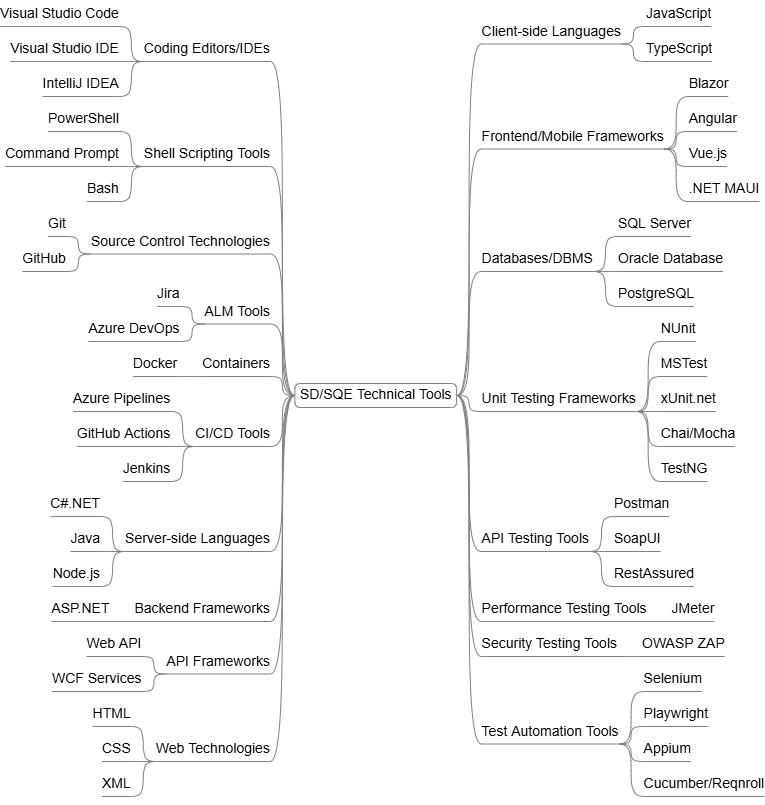
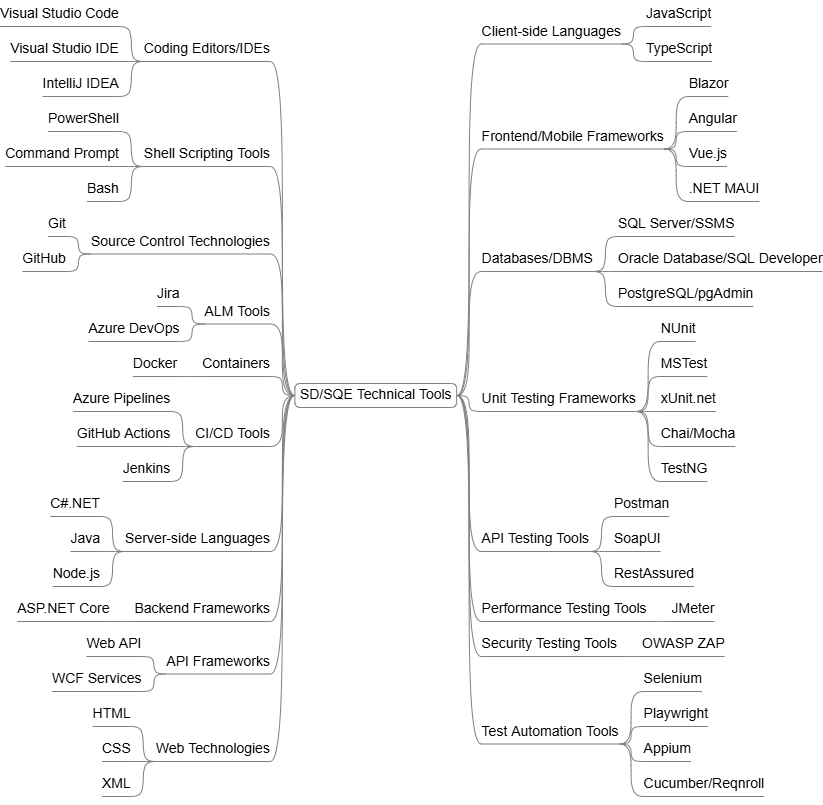
tech tools version 1.0

diff --git a/ShellScripting/README.md b/ShellScripting/README.md
@@ -2,9 +2,9 @@
 
 ## PowerShell
 
-a shell program provides a command-line interpreter for interactive use and a script interpreter for automation via a language defined for it
+**PowerShell** is a shell program provides a command-line interpreter for interactive use and a script interpreter for automation via a language defined for it.
 
-Windows PowerShell ISE (Integrated Scripting Environment) is a built-in graphical user interface (GUI) for Windows that allows you to write, test, and debug PowerShell scripts.
+**Windows PowerShell ISE (Integrated Scripting Environment)** is a built-in graphical user interface (GUI) for Windows that allows you to write, test, and debug PowerShell scripts.
 
 [PowerShell Documentation Website](https://learn.microsoft.com/en-us/powershell/)
 
@@ -18,9 +18,9 @@ Windows PowerShell ISE (Integrated Scripting Environment) is a built-in graphica
 
 ## Command Prompt
 
-a command-Line shell that provides direct communication between user and Windows operating system.
+**Command Prompt** is a command-Line shell that provides direct communication between user and Windows operating system.
 
-Windows Terminal is a modern host application for the command-line shells, like Command Prompt, PowerShell, and bash (via Windows Subsystem for Linux (WSL)).
+**Windows Terminal** is a modern host application for the command-line shells, like Command Prompt, PowerShell, and bash (via Windows Subsystem for Linux (WSL)).
 
 [Windows Terminal Website](https://learn.microsoft.com/en-us/windows/terminal/)
 
@@ -32,9 +32,9 @@ Windows Terminal is a modern host application for the command-line shells, like 
 
 ## Bash (Bourne-Again SHell)
 
-Command language interpreter used for UNIX-like operating systems (e.g. Linux) and runs on other operating systems
+**Bash** is a Command language interpreter used for UNIX-like operating systems (e.g. Linux) and runs on other operating systems.
 
-Windows Subsystem for Linux (WSL) lets developers run a GNU/Linux environment -- including most command-line tools, utilities, and applications -- directly on Windows without the overhead of a traditional virtual machine or dual-boot setup
+**Windows Subsystem for Linux (WSL)** lets developers run a GNU/Linux environment -- including most command-line tools, utilities, and applications -- directly on Windows without the overhead of a traditional virtual machine or dual-boot setup.
 
 [GNU Bash Website](https://www.gnu.org/software/bash/)
 

diff --git a/FrontendFrameworks/README.md b/FrontendFrameworks/README.md
@@ -1,8 +1,8 @@
-# Front-end Frameworks
+# Frontend/Mobile Frameworks
 
 ## Angular
 
-a TypeScript-based web application framework
+A TypeScript-based web application framework.
 
 [Angular Website](https://angular.dev/)
 
@@ -12,7 +12,7 @@ a TypeScript-based web application framework
 
 ## Vue.js
 
-a JavaScript framework for building user interfaces. It builds on HTML, CSS, and JavaScript.
+A JavaScript framework for building user interfaces. It builds on HTML, CSS, and JavaScript.
 
 [Vue.js Website](https://vuejs.org/)
 
@@ -22,7 +22,7 @@ a JavaScript framework for building user interfaces. It builds on HTML, CSS, and
 
 ## Blazor
 
-a modern front-end web framework based on HTML, CSS, and C#
+A modern front-end web framework based on HTML, CSS, and C#.
 
 [Blazor Website](https://dotnet.microsoft.com/en-us/apps/aspnet/web-apps/blazor/)
 
@@ -34,9 +34,13 @@ a modern front-end web framework based on HTML, CSS, and C#
 
 ## .NET MAUI (Multi-platform App UI)
 
+**.NET Multi-platform App UI (.NET MAUI)** is a cross-platform framework for creating native mobile and desktop apps with C# and XAML.
+
+**The eXtensible Application Markup Language (XAML)** is an XML-based language that's an alternative to programming code for instantiating and initializing objects, and organizing those objects in parent-child hierarchies.
+
 [.NET MAUI Website](https://dotnet.microsoft.com/en-us/apps/maui)
 
-[.NET MAUI documentation](https://learn.microsoft.com/en-us/dotnet/maui/)
+[.NET MAUI Documentation](https://learn.microsoft.com/en-us/dotnet/maui/) | [XAML Guide](https://learn.microsoft.com/en-us/dotnet/maui/xaml/fundamentals/get-started)
 
 [Get started with XAML](https://learn.microsoft.com/en-us/dotnet/maui/xaml/fundamentals/get-started)
 

diff --git a/CICD/README.md b/CICD/README.md
@@ -2,7 +2,7 @@
 
 ## Azure Pipelines
 
-Azure Pipelines is the part of Azure DevOps that combines continuous integration, continuous testing, and continuous delivery to automatically build, test, and deploy code projects to any destination
+Azure Pipelines is the part of Azure DevOps that combines continuous integration, continuous testing, and continuous delivery to automatically build, test, and deploy code projects to any destination.
 
 [Azure Pipelines Website](https://azure.microsoft.com/en-us/products/devops/pipelines/)
 
@@ -12,7 +12,7 @@ Azure Pipelines is the part of Azure DevOps that combines continuous integration
 
 ## GitHub Actions
 
-a continuous integration and continuous delivery (CI/CD) platform that allows to automate build, test, and deployment pipeline
+A continuous integration and continuous delivery (CI/CD) platform that allows to automate build, test, and deployment pipeline.
 
 [GitHub Actions Website](https://github.com/features/actions)
 
@@ -22,7 +22,7 @@ a continuous integration and continuous delivery (CI/CD) platform that allows to
 
 ## Jenkins
 
-a self-contained, open source automation server which can be used to automate all sorts of tasks related to building, testing, and delivering or deploying software.
+A self-contained, open source automation server which can be used to automate all sorts of tasks related to building, testing, and delivering or deploying software.
 
 [Jenkins Website](https://www.jenkins.io/)
 

diff --git a/TestAutomation/README.md b/TestAutomation/README.md
@@ -22,7 +22,7 @@ Playwright is an automation framework for web apps testing.
 
 ## Appium
 
-an open-source project and ecosystem of related software, designed to facilitate UI automation of many app platforms, including mobile, desktop, TV.
+An open-source project and ecosystem of related software, designed to facilitate UI automation of many app platforms, including mobile, desktop, TV.
 
 [Appium WebSite](https://appium.io/)
 
@@ -32,13 +32,13 @@ an open-source project and ecosystem of related software, designed to facilitate
 
 ## Cucumber
 
-**Cucumber** is a tool that supports Behaviour-Driven Development(BDD). Cucumber reads executable specifications written in plain text and validates that the software does what those specifications say
+**Cucumber** is a tool that supports Behaviour-Driven Development(BDD). Cucumber reads executable specifications written in plain text and validates that the software does what those specifications say.
 
-**Gherkin** is a set of grammar rules that makes plain text structured enough for Cucumber to understand
+**Gherkin** is a set of grammar rules that makes plain text structured enough for Cucumber to understand.
 
 **Step definitions** Works to connect Gherkin steps to programming code.
 
-**Reqnroll** is a BDD Cucumber Framework for .NET
+**Reqnroll** is a BDD Cucumber Framework for .NET.
 
 [Cucumber Website](https://cucumber.io/) | [Cucumber Documentation Website](https://cucumber.io/docs)
 

diff --git a/README.md b/README.md
@@ -1,8 +1,8 @@
 # Technical Tools
 
-Essential Usage Guide for Software Development & Quality Engineering Tools
+Essential Usage Guide for Software Development & Quality Engineering Tools.
 
-_Technical Tools, Editors, IDE's, Shells, SCM, ALM, Programming Languages, Scripting Languages, Frameworks, Databases, DBMS, APIs, Web Technologies, Automation, Containers, CI/CD_
+**Keywords:** _Technical Tools, Editors, IDE's, Shells, SCM, ALM, Programming Languages, Scripting Languages, Frameworks, Databases, DBMS, APIs, Web Technologies, Automation, Containers, CI/CD_
 
 ![TechnicalSkills](TechTools.png)
 
@@ -36,7 +36,7 @@ C#.NET/NuGet, Java/maven, Node.js/npm
 
 ## [Backend Frameworks](BackendFrameworks/README.md)
 
-ASP.NET
+ASP.NET Core
 
 ## [API Frameworks](APIs/README.md)
 
@@ -56,13 +56,13 @@ Blazor, Angular, Vue.js, .NET MAUI
 
 ## [Databases/DBMS](Databases/README.md)
 
-SQL Server, Oracle Database, PostgreSQL
+SQL Server/SSMS, Oracle Database/SQL Developer, PostgreSQL/pgAdmin
 
 ## [Unit Testing Frameworks](UnitTesting/README.md)
 
 NUnit, MSTest, xUnit.net, Chai/Mocha, TestNG
 
-## [API Testing Tools](ApiTesting/README.md)
+## [API Testing Tools](APiTesting/README.md)
 
 Postman, SoapUI, RestAssured
 

diff --git a/UnitTesting/README.md b/UnitTesting/README.md
@@ -2,7 +2,7 @@
 
 ## NUnit
 
-a unit testing framework for .Net Programming languages
+A unit testing framework for .Net Programming languages.
 
 [NUnit Website](https://nunit.org/)
 
@@ -14,7 +14,7 @@ a unit testing framework for .Net Programming languages
 
 ## MSTest
 
-a Microsoft Testing framework for .NET applications.
+A Microsoft Testing framework for .NET applications.
 
 [MSTest github](https://github.com/microsoft/testfx)
 
@@ -24,7 +24,7 @@ a Microsoft Testing framework for .NET applications.
 
 ## xUnit.net
 
-a unit testing tool for the .NET Framework
+A unit testing tool for the .NET Framework.
 
 [xUnit WebSite](https://xunit.net/)
 
@@ -34,7 +34,7 @@ a unit testing tool for the .NET Framework
 
 ## Mocha and Chai
 
-**Mocha** is a JavaScript test framework for Node.js programs
+**Mocha** is a JavaScript test framework for Node.js programs.
 
 **Chai** is an assertion library that is used chiefly alongside Mocha.
 
@@ -44,7 +44,7 @@ a unit testing tool for the .NET Framework
 
 ## TestNG
 
-a unit testing framework for Java programming language
+A unit testing framework for Java programming language.
 
 [TestNG Website](https://testng.org/)
 

diff --git a/Databases/README.md b/Databases/README.md
@@ -12,7 +12,7 @@ Microsoft SQL Server is a relational database management system (RDBMS). Applica
 
 [SQL_Server_Overview](https://drive.google.com/file/d/10srlgu5D117ebQWwE_BgIKbXyrpwFY-h/view?usp=drive_link)
 
-## Oracle AI Database
+## Oracle Database
 
 AI-native database that integrates AI directly into enterprise data management, enabling advanced analytics, vector search, and agentic AI workflows.
 
@@ -25,6 +25,8 @@ AI-native database that integrates AI directly into enterprise data management, 
 [Oracle Database Overview](https://drive.google.com/file/d/1wQ87VaQgrq8VKtMiJ_eVsCzdOBIZq18k/view?usp=drive_link)
 
 ## PostgreSQL
+
+An open source object-relational database system that uses and extends the SQL language combined with many features that safely store and scale the most complicated data workloads.
 
 [PostgreSQL WebSite](https://www.postgresql.org/)
 

diff --git a/IDEs/README.md b/IDEs/README.md
@@ -2,7 +2,7 @@
 
 ## Visual Studio Code
 
-Code Edittor with rich features
+Code Edittor with rich features.
 
 [Visual Studio Code Website](https://code.visualstudio.com/)
 
@@ -12,7 +12,7 @@ Code Edittor with rich features
 
 ## Visual Studio IDE
 
-An Integrated Development Environment (IDE) for professional development in .NET
+An Integrated Development Environment (IDE) for professional development in .NET .
 
 [Visual Studio Website](https://visualstudio.microsoft.com/)
 
@@ -22,7 +22,7 @@ An Integrated Development Environment (IDE) for professional development in .NET
 
 ## IntelliJ IDEA
 
-An Integrated Development Environment (IDE) for professional development in Java 
+An Integrated Development Environment (IDE) for professional development in Java.
 
 [IntelliJ IDEA Website](https://www.jetbrains.com/idea/)
 

diff --git a/ALM/README.md b/ALM/README.md
@@ -2,7 +2,7 @@
 
 ## Azure DevOps
 
-Microsoft Application lifecycle management tool that provide Plan, Track, Collaborate, Source control, Build, Test, Deploy, CI/CD Services
+Microsoft Application lifecycle management tool that provide Plan, Track, Collaborate, Source control, Build, Test, Deploy, CI/CD Services.
 
 [Azure DevOps Website](https://azure.microsoft.com/en-us/products/devops)
 
@@ -14,7 +14,7 @@ Microsoft Application lifecycle management tool that provide Plan, Track, Collab
 
 ## Jira
 
-a project management tool used to plan and track work across teams.
+A project management tool used to plan and track work across teams.
 
 [Jira Website](https://www.atlassian.com/software/jira)
 

diff --git a/WebTechnologies/README.md b/WebTechnologies/README.md
@@ -2,7 +2,7 @@
 
 ## HTML
 
-a markup language for creating Web pages and describes the structure of a Web page
+A markup language for creating Web pages and describes the structure of a Web page.
 
 [HTML Website](https://html.spec.whatwg.org/)
 
@@ -12,7 +12,7 @@ a markup language for creating Web pages and describes the structure of a Web pa
 
 ## CSS
 
-a language use to style a Web page
+A language use to style a Web page.
 
 [CSS Website](https://www.w3.org/TR/css/#css)
 
@@ -22,7 +22,7 @@ a language use to style a Web page
 
 ## XML
 
-a markup language used to store and transport data.
+A markup language used to store and transport data.
 
 [XML Website](https://www.w3.org/TR/xml/)
 

diff --git a/APIs/README.md b/APIs/README.md
@@ -1,8 +1,8 @@
-# API
+# APIs Frameworks
 
 ## ASP.NET Web API
 
-REST APIs with ASP.NET Core
+REST APIs with ASP.NET Core.
 
 [Web API Website](https://dotnet.microsoft.com/en-us/apps/aspnet/apis)
 
@@ -12,7 +12,7 @@ REST APIs with ASP.NET Core
 
 ## WCF (Windows Communication Foundation)
 
-Windows Communication Foundation (WCF) is a framework for building service-oriented applications
+Windows Communication Foundation (WCF) is a framework for building service-oriented applications.
 
 [WCF Website](https://learn.microsoft.com/en-us/dotnet/framework/wcf/)
 

diff --git a/SecurityTesting/README.md b/SecurityTesting/README.md
@@ -1,10 +1,11 @@
-# ZAP (Zed Attack Proxy)
+# Security Testing 
 
-a Security testing tool designed for testing web applications
+## ZAP (Zed Attack Proxy)
+
+A Security testing tool designed for testing web applications.
 
 [ZAP Website](https://www.zaproxy.org/)
 
 [ZAP Documentation Website](https://www.zaproxy.org/docs/)
 
 [ZAP Getting Started](https://drive.google.com/file/d/1PJ_Jcji8h2-VdJNGYpcy8wm9cM34ov4W/view?usp=drive_link)
-
